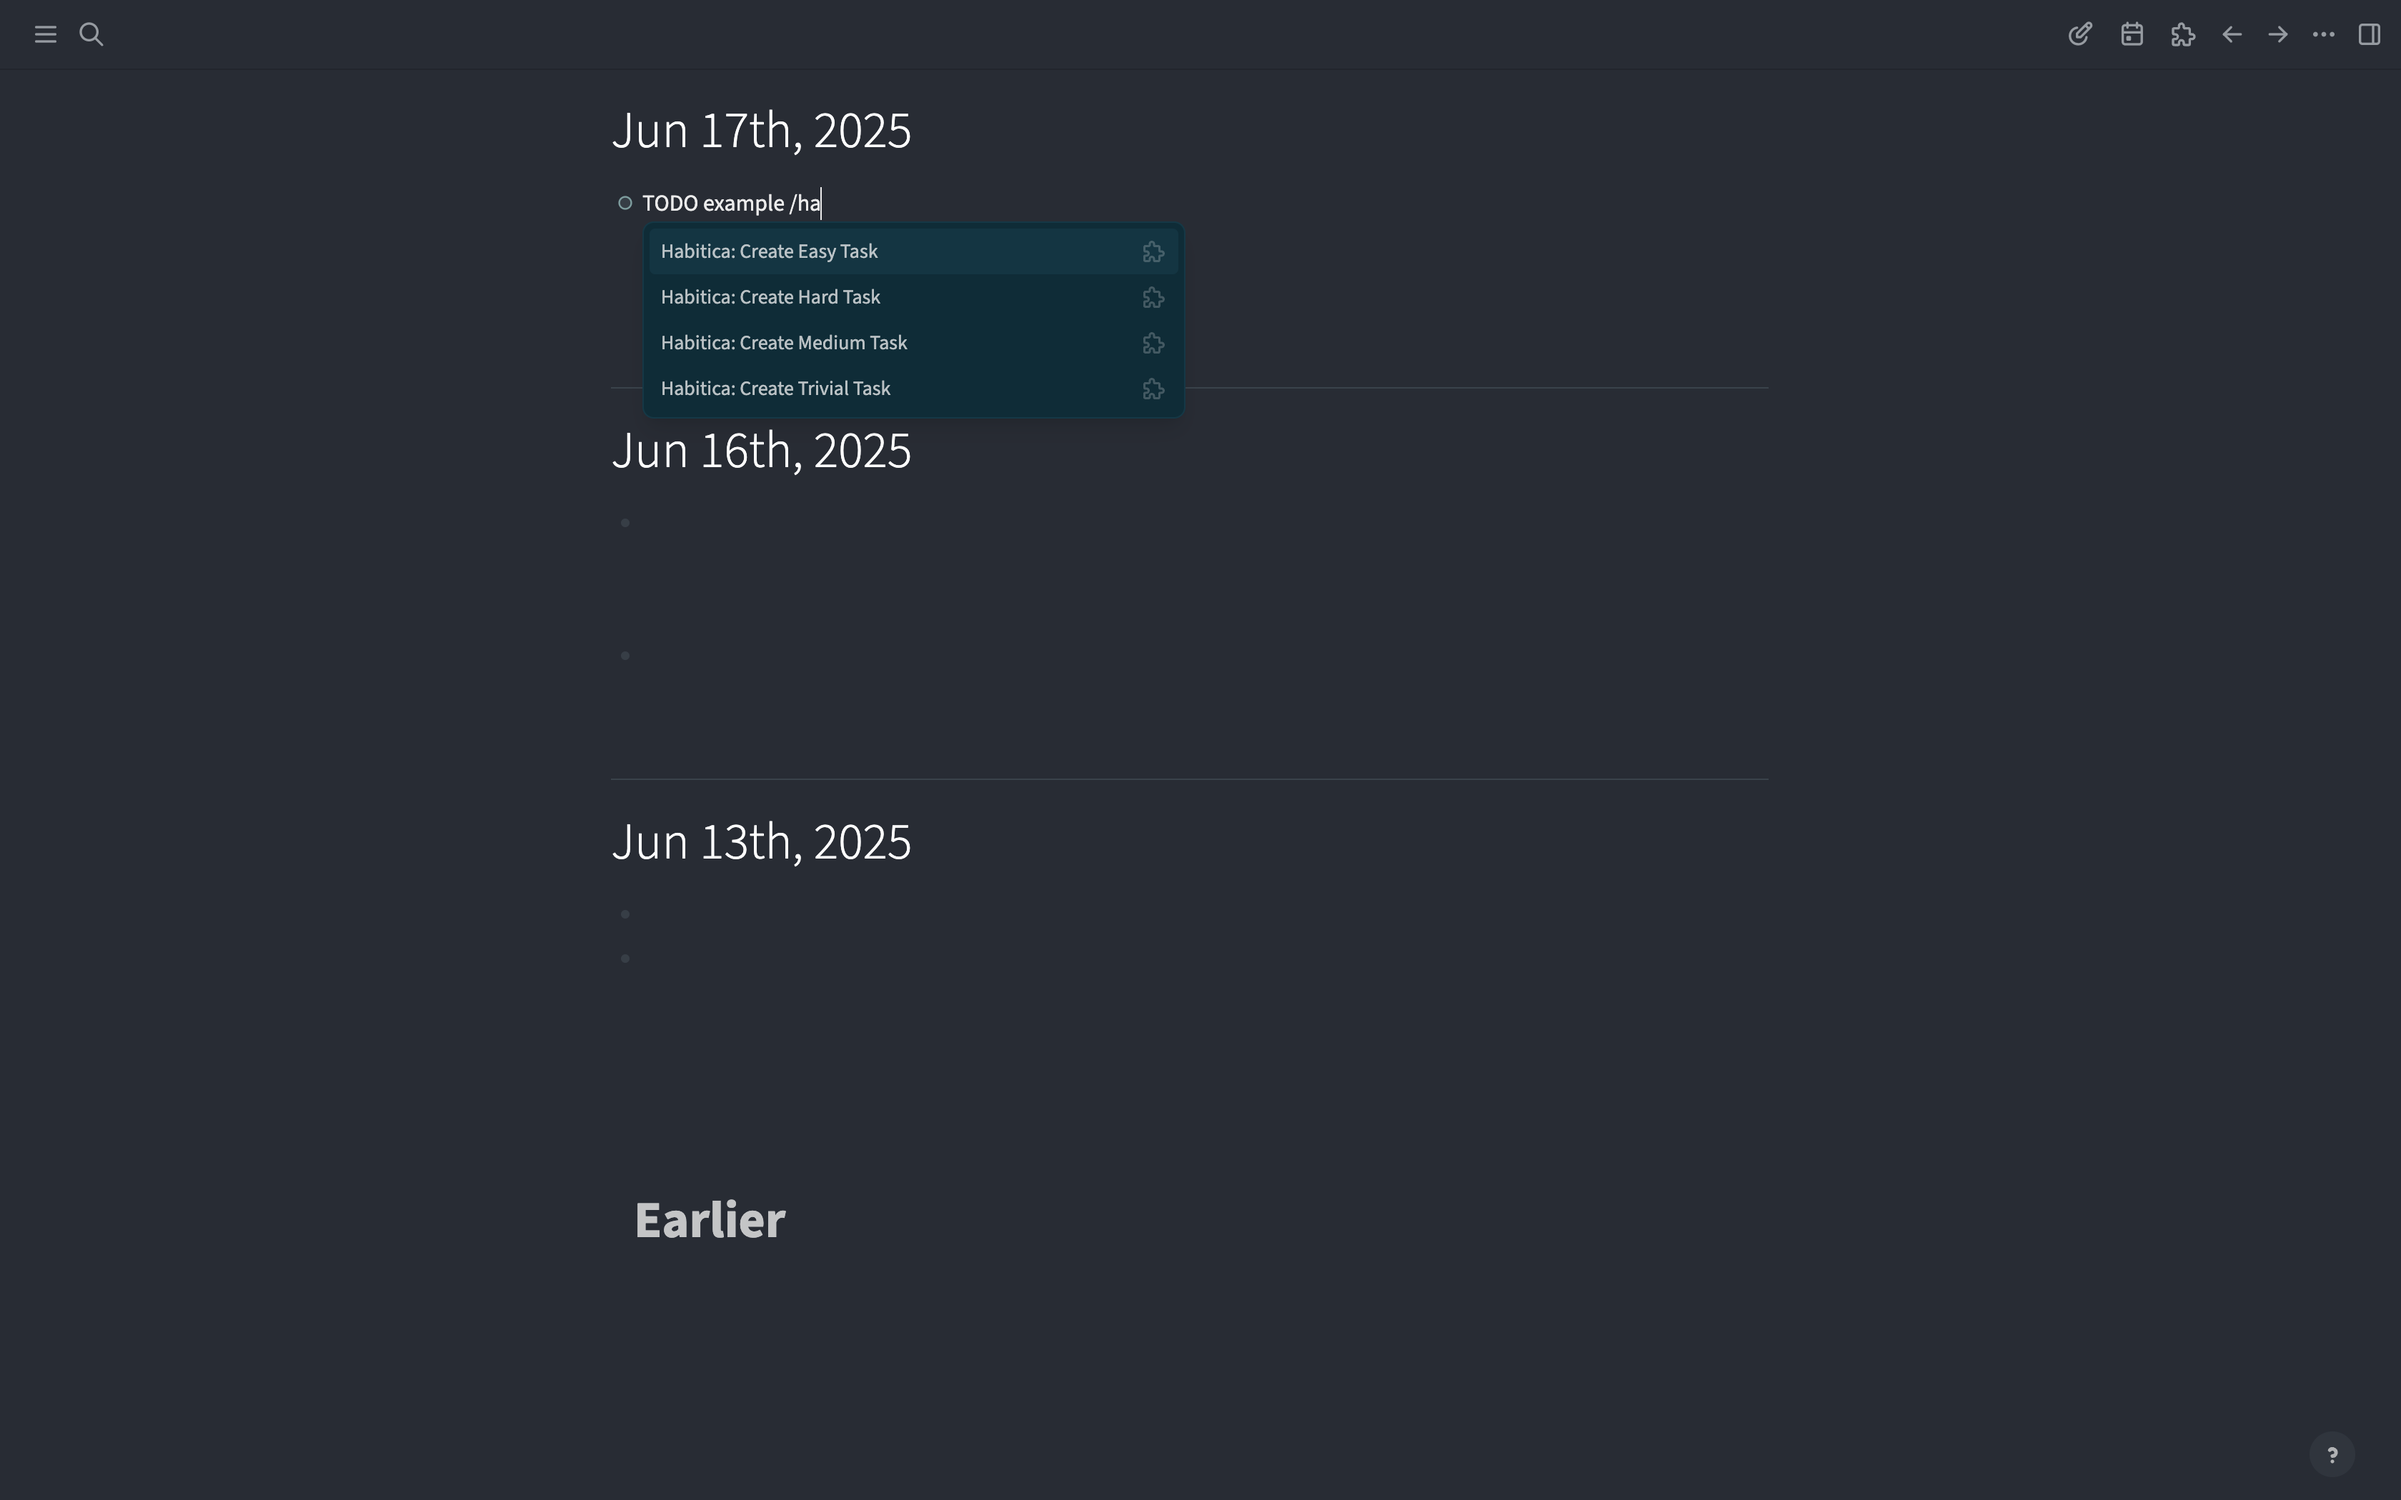
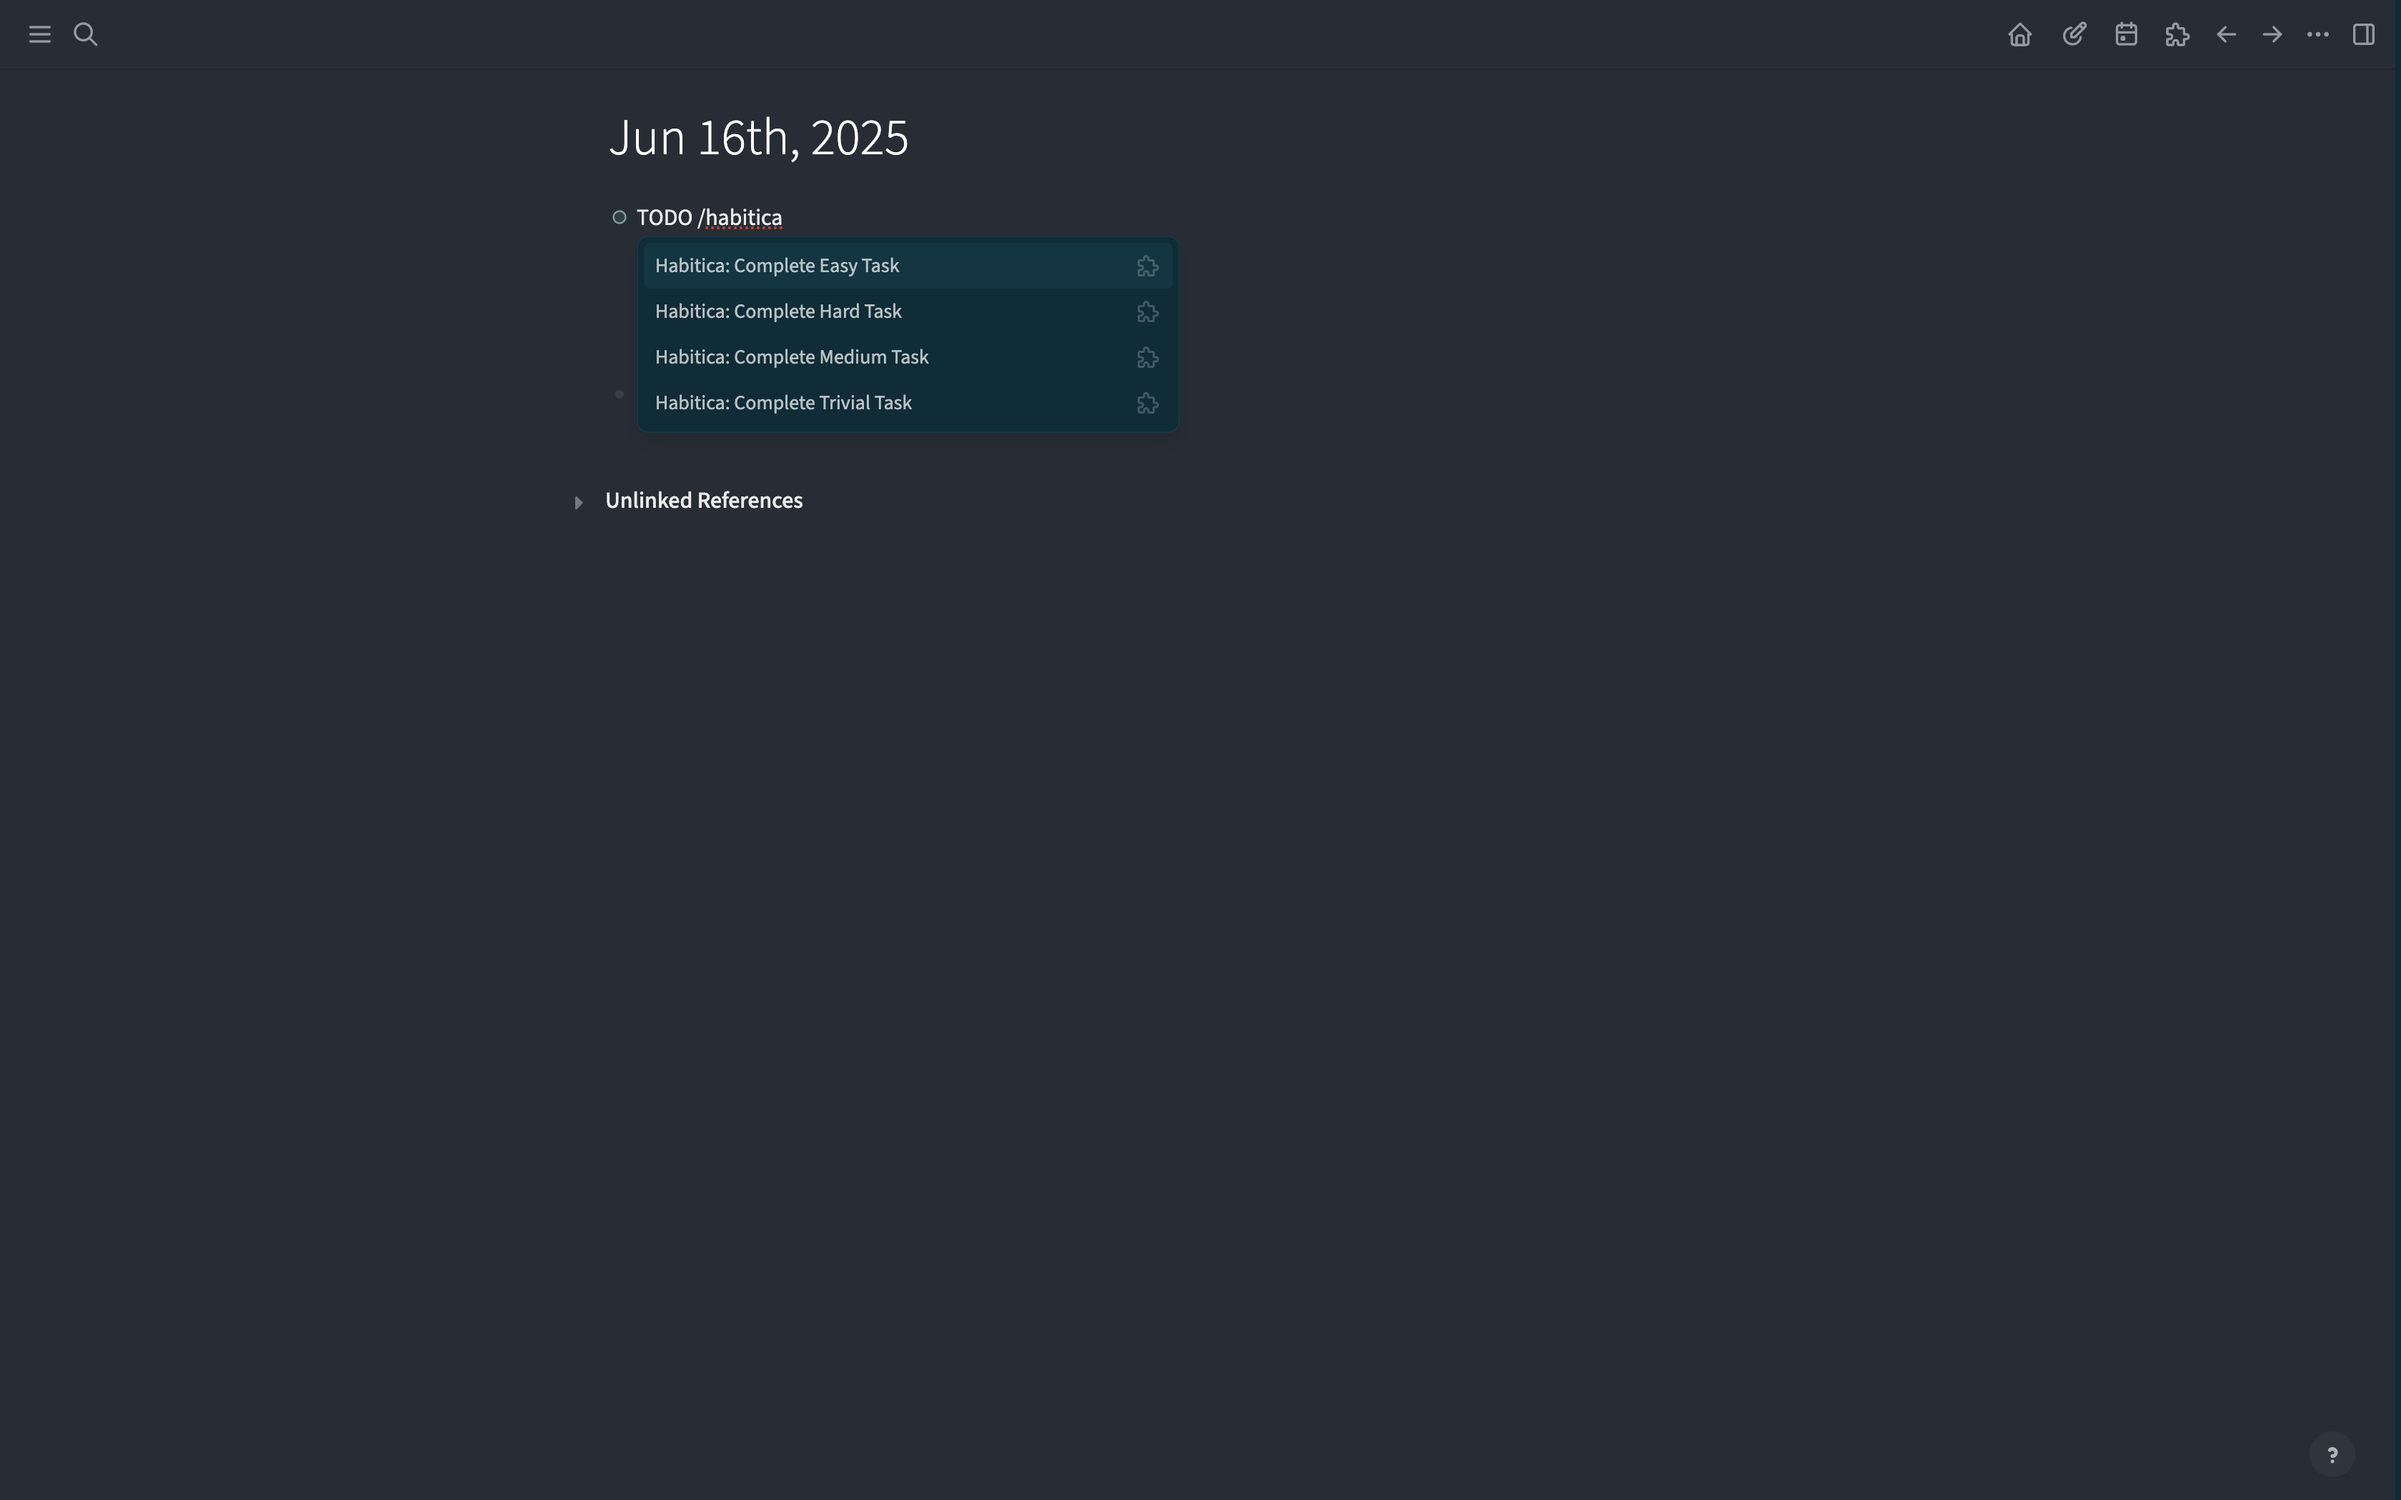
docs: update README to reflect modified core functionality
- Removed outdated workflow information
- Updated usage instructions to match current implementation

diff --git a/readme.md b/readme.md
@@ -1,18 +1,13 @@
-# Logseq Habitica Plugin 🎮
+# Logseq Habitica Plugin
 
 A plugin that integrates Logseq tasks with Habitica!
 
 ## ✨ Features
 
 ![SlashCommand](./screenshots/slash-command.png)
-![CommandPalette](./screenshots/command-palette.png)
 ![Settings](./screenshots/settings.png)
 
-
-- 🎯 **Smart Task Sync** - Automatically create Logseq TODO tasks in Habitica
 - 🏆 **Four Priority Levels** - Support for Trivial, Easy, Medium, and Hard priority settings
-- ⚡ **Real-time Completion Sync** - Automatically complete tasks in Habitica when marked DONE in Logseq
-- 🚀 **Batch Operations** - One-click creation of all today's TODO tasks
 - 🔒 **Secure & Reliable** - Follows Habitica API usage guidelines with built-in rate limiting protection
 
 ## 🎯 Usage
@@ -22,21 +17,19 @@ A plugin that integrates Logseq tasks with Habitica!
 2. Paste your **User ID** and **API Token**
 3. Use `Ctrl+Shift+H T` to test connection
 
-### Single Task Creation (Slash Commands)
-Use slash commands in any TODO block:
-- `/Habitica: Create Trivial Task` - Create trivial task (yellow)
-- `/Habitica: Create Easy Task` - Create easy task (orange)
-- `/Habitica: Create Medium Task` - Create medium task (red)
-- `/Habitica: Create Hard Task` - Create hard task (purple)
+### Task Completion (Slash Commands)
+Use slash commands in any TODO/LATER/WAITING block:
+- `/Habitica: Complete Trivial Task` - Complete trivial priority task
+- `/Habitica: Complete Easy Task` - Complete easy priority task
+- `/Habitica: Complete Medium Task` - Complete medium priority task
+- `/Habitica: Complete Hard Task` - Complete hard priority task
 
-### Batch Creation (Keyboard Shortcuts)
-- `Ctrl+Shift+H 1` - Batch create trivial tasks
-- `Ctrl+Shift+H 2` - Batch create easy tasks
-- `Ctrl+Shift+H 3` - Batch create medium tasks
-- `Ctrl+Shift+H 4` - Batch create hard tasks
+### How it works:
 
-### Test Connection
-- `Ctrl+Shift+H T` - Test Habitica connection
+1. Create daily TODOs in Logseq
+2. When completing tasks, use `/` to find Habitica:xxx commands
+3. The command will automatically create a Habitica task and complete it after a 1-second delay
+4. After Habitica task completion, the Logseq TODO will be automatically marked as DONE
 
 ## 📄 License
 
